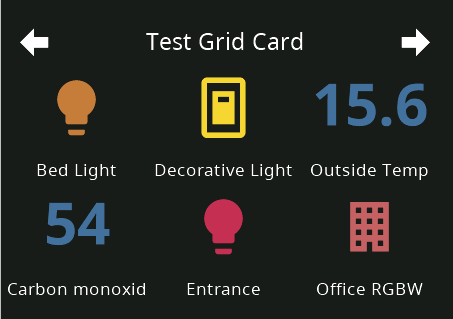
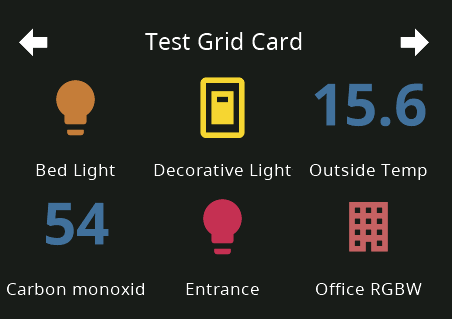
add pic

diff --git a/docs/card-grid.md b/docs/card-grid.md
@@ -1,5 +1,8 @@
 # Grid Page
 
+![card-grid](img/card-grid.png)
+
+
 ```
     cards:
       - type: cardGrid
